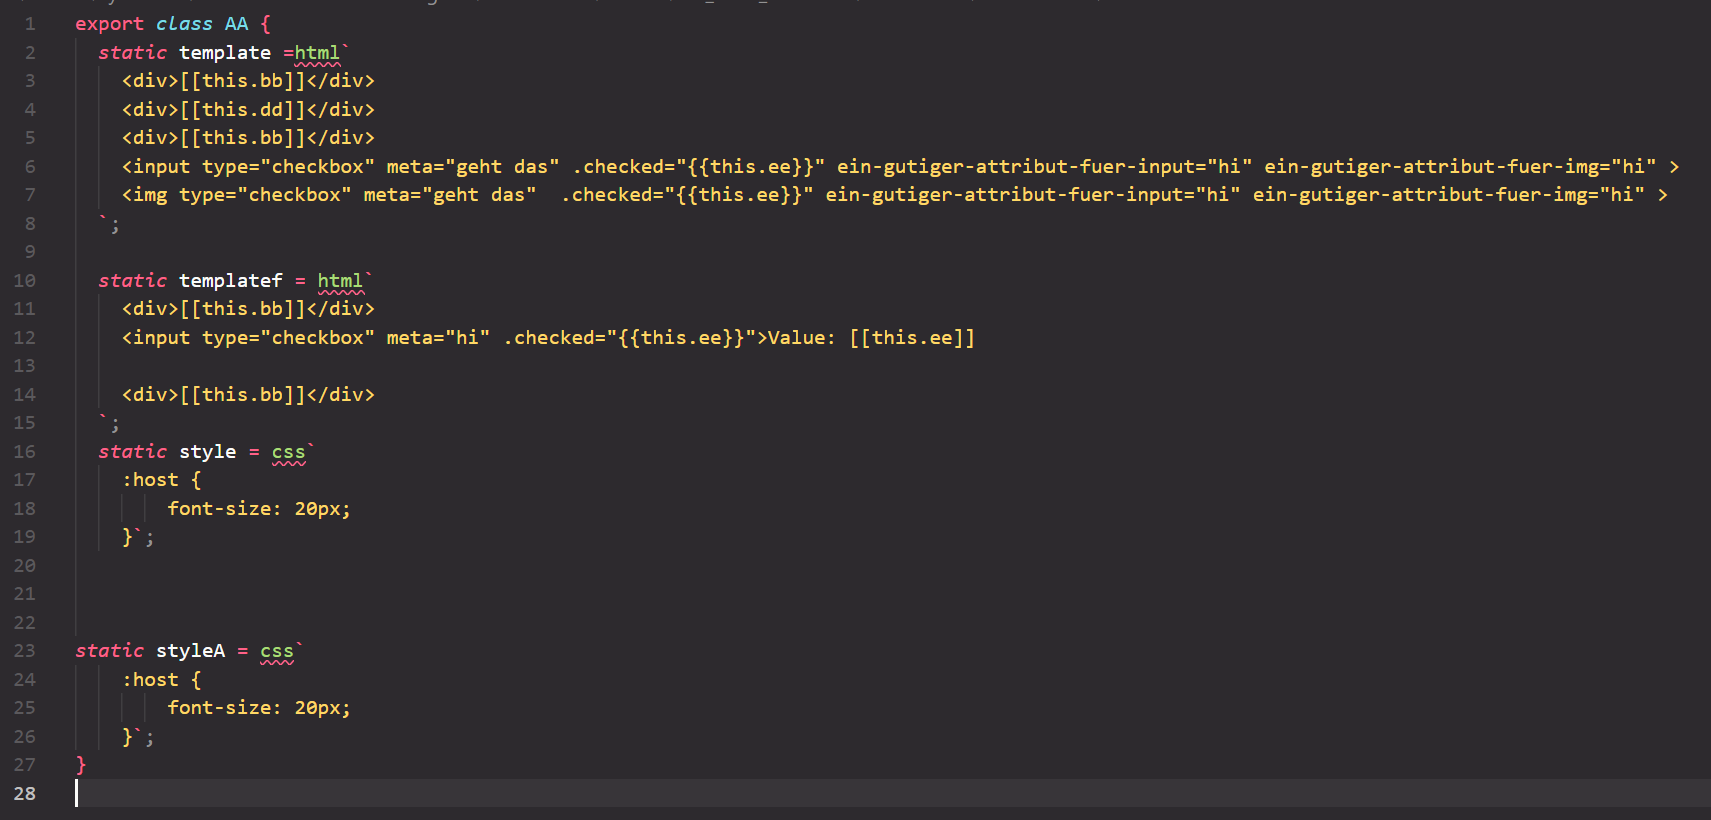
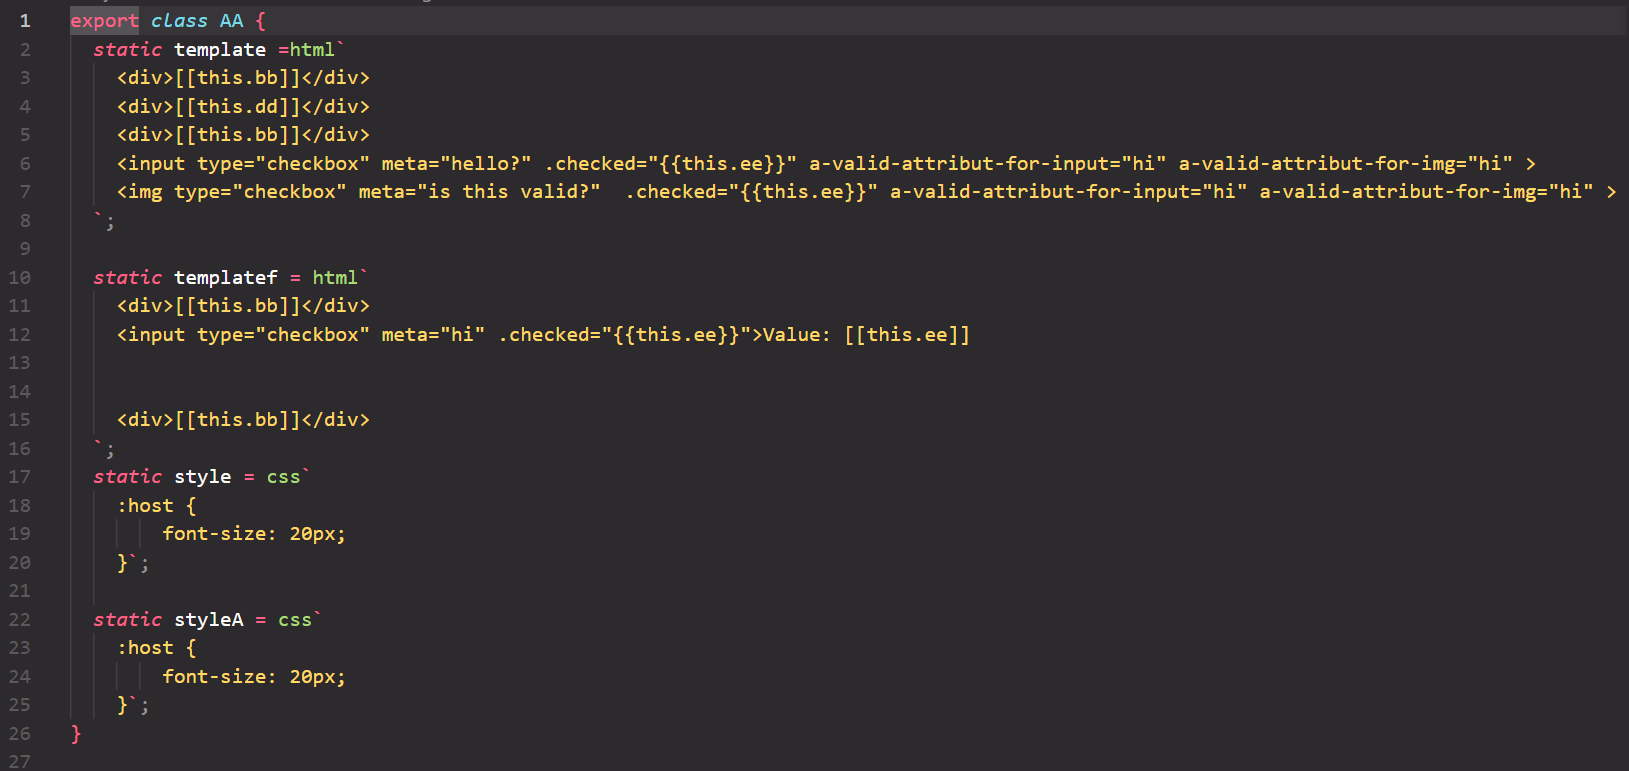
write README in english

diff --git a/src/class/customElement.ts b/src/class/customElement.ts
@@ -8,14 +8,14 @@ class CustomElement implements IHTMLDataProvider {
       description: 'Custom web component',
       attributes: [
         { name: '.checked', description: 'Custom attribute' },
-        { name: 'ein-gutiger-attribut-fuer-input', description: 'Custom attribute' }
+        { name: 'a-valid-attribut-for-input', description: 'Custom attribute' }
       ]
     },
     {
       name: 'img',
       description: 'Custom web component',
       attributes: [
-        { name: 'ein-gutiger-attribut-fuer-img', description: 'Custom attribute' }
+        { name: 'a-valid-attribut-for-img', description: 'Custom attribute' }
       ]
     }
   ];

diff --git a/README.md b/README.md
@@ -1,7 +1,7 @@
 # Lit-HTML & Styled Components Extension
 
 A VS Code extension that provides syntax highlighting and diagnostic features for lit-html templates, styled-components and css-templates in JavaScript/TypeScript projects.
-This project builds on the Base-Custom-Components project.
+This project builds on the [Base-Custom-Components](https://github.com/node-projects/base-custom-webcomponent/) project.
 
 ## Features
 
@@ -45,6 +45,10 @@ static style = css`
 ### After activation
 
 ![App Screenshot](images/preview.png "Extension preview with diagnostic")
+
+- In this case, i declared ```.checked``` as a valid attribute only for ```input``` tag
+
+- I also declared ```a-valid-attribut-for-input``` attribute only valid for ```input``` tag and for comparison i also declared ```a-valid-attribut-for-img``` attribute only valid for ```img```
 
 ## Installation
 
